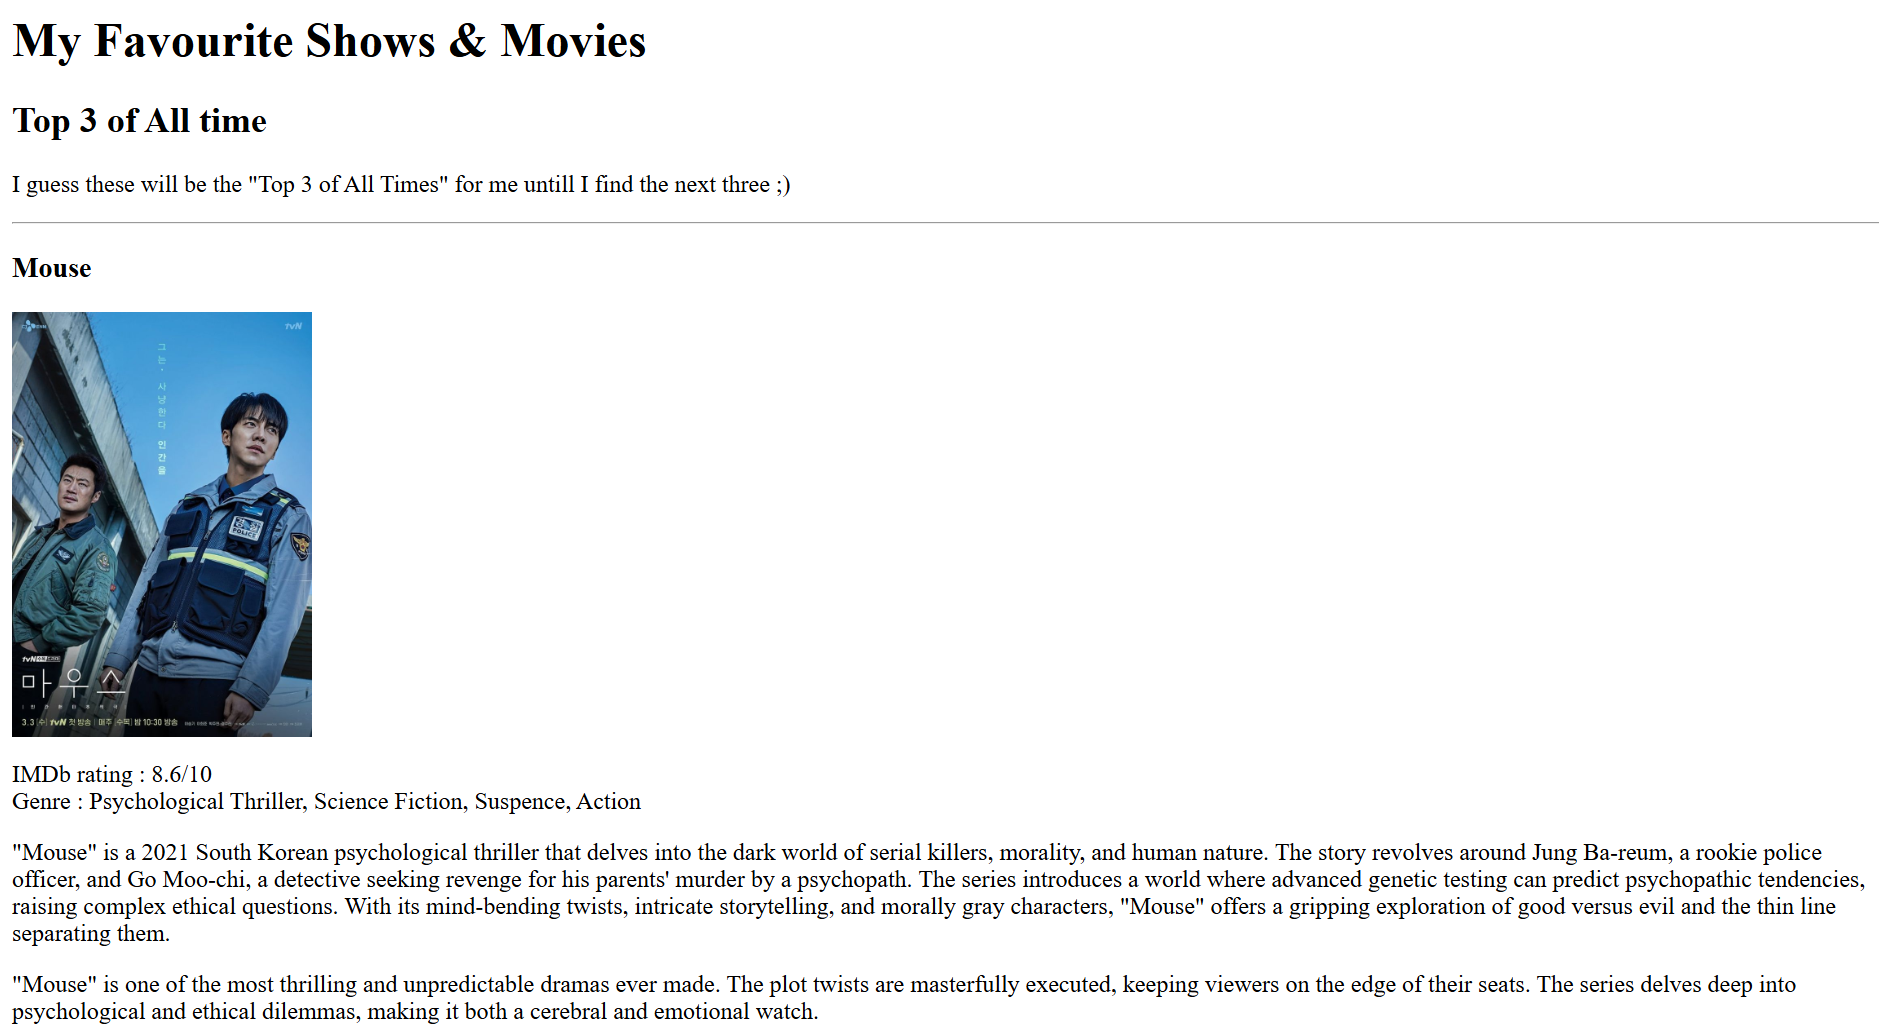
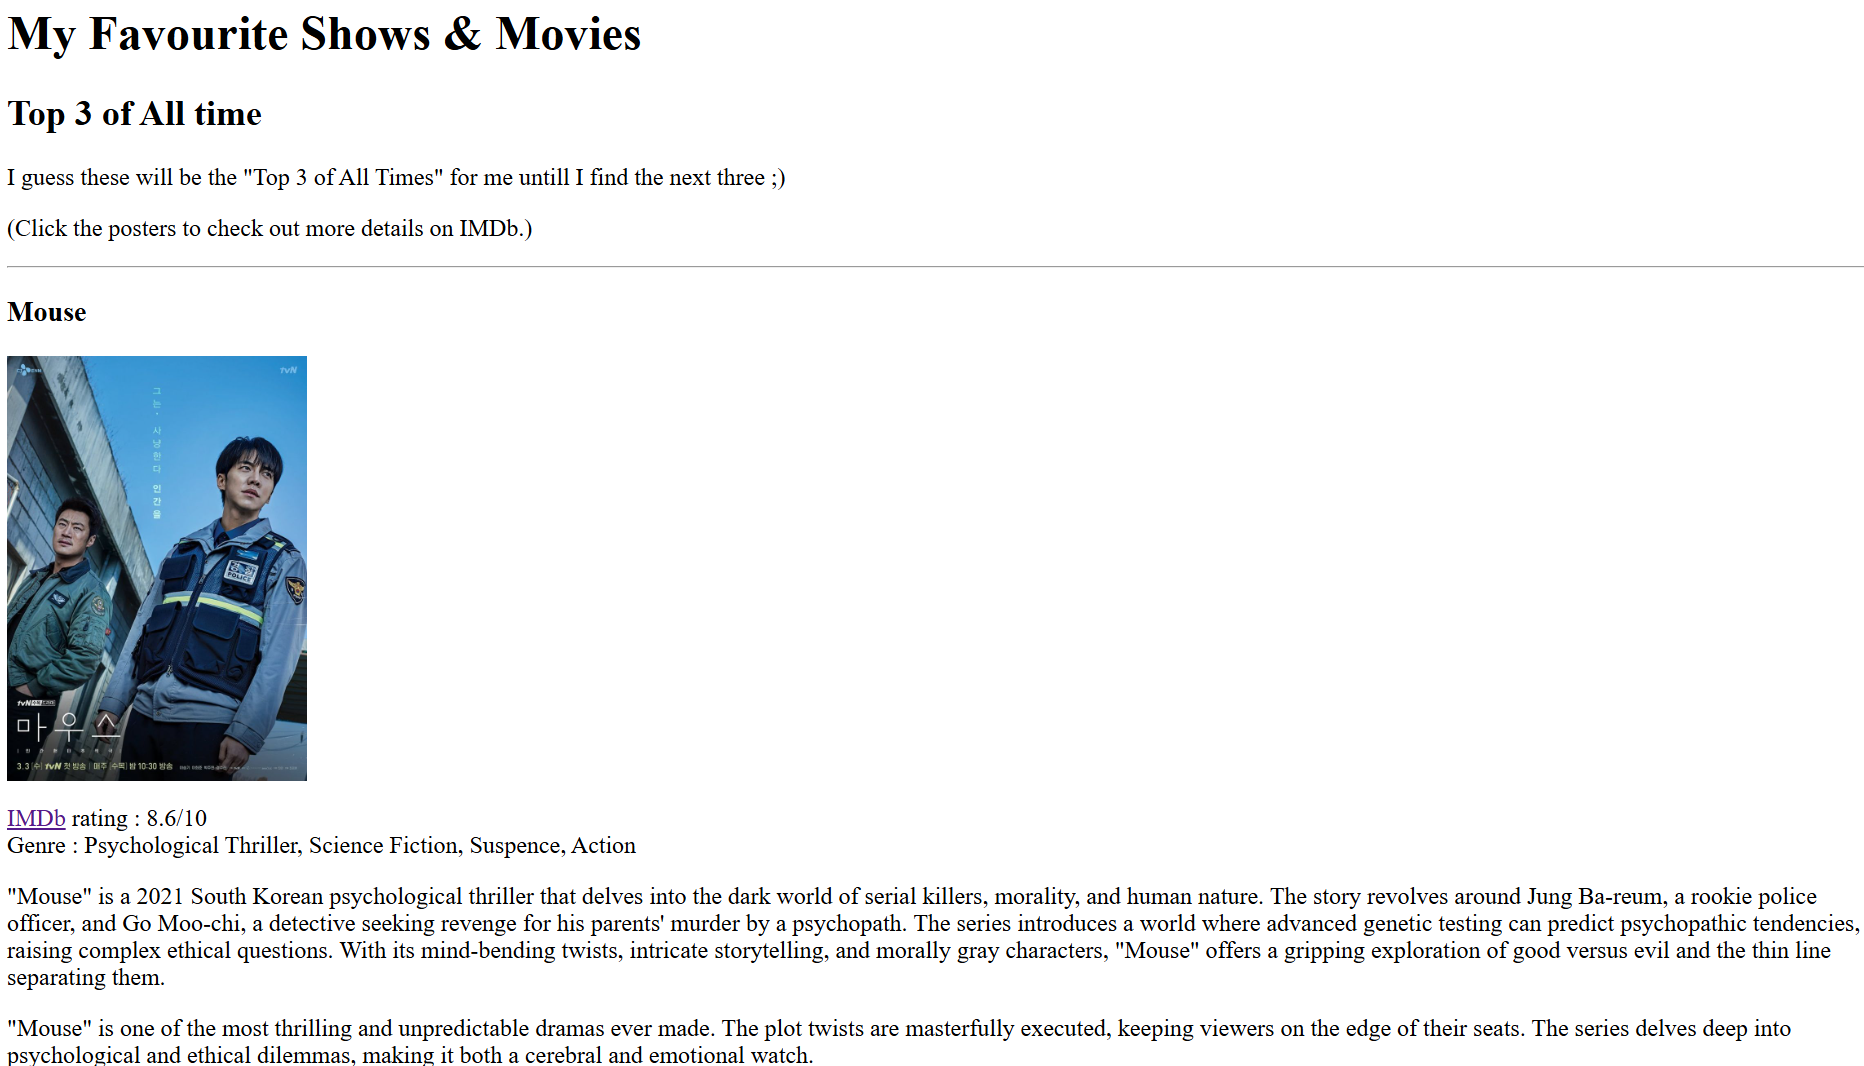
Add files via upload

diff --git a/public/movie-ranking.html b/public/movie-ranking.html
@@ -1,13 +1,14 @@
 <h1>My Favourite Shows & Movies</h1>
 <h2>Top 3 of All time</h2>
 <p>I guess these will be the "Top 3 of All Times" for me untill I find the next three ;) </p>
+<p>(Click the posters to check out more details on IMDb.)</p>
 
 <hr />
 
 <h3>Mouse</h3>
-<img src="https://i.pinimg.com/736x/41/a2/c0/41a2c05cea28377717bd36cfd1013dae.jpg" alt="Poster of Mouse" width="200" />   
+<a href="https://www.imdb.com/title/tt13634792/"><img src="https://i.pinimg.com/736x/41/a2/c0/41a2c05cea28377717bd36cfd1013dae.jpg" alt="Poster of Mouse" width="200" />   </a>
 <p> 
-    IMDb rating : 8.6/10 <br />
+    <a href="https://www.imdb.com/title/tt13634792/">IMDb</a> rating : 8.6/10 <br />
     Genre : Psychological Thriller, Science Fiction, Suspence, Action<br />
 </p>
 <p>
@@ -25,9 +26,9 @@
 </p>
 
 <h3>Alchemy of Souls</h3>
-<img src="https://i.pinimg.com/736x/5e/41/23/5e41231c5ab3b9f7eb0758905fb97993.jpg" alt="Poster of Alchemy of Souls" width="200" />
+<a href="https://www.imdb.com/title/tt20859920/"><img src="https://i.pinimg.com/736x/5e/41/23/5e41231c5ab3b9f7eb0758905fb97993.jpg" alt="Poster of Alchemy of Souls" width="200" /></a>
 <p> 
-    IMDb rating : 8.7/10 <br />
+    <a href="https://www.imdb.com/title/tt20859920/">IMDb</a> rating : 8.7/10 <br />
     Genre : Historical Fiction, Fantasy, Romance, Comedy, Action<br />
 </p>
 <p>
@@ -44,9 +45,9 @@
 </p>
 
 <h3>Love, Victor</h3>
-<img src="https://i.pinimg.com/736x/af/83/af/af83af3a4269fb3e26c52a16720f94df.jpg" alt="Poster of Mouse" width="200" />   
+<a href="https://www.imdb.com/title/tt10166602/"><img src="https://i.pinimg.com/736x/af/83/af/af83af3a4269fb3e26c52a16720f94df.jpg" alt="Poster of Mouse" width="200" />   </a>
 <p> 
-    IMDb rating : 8/10 <br />
+    <a href="https://www.imdb.com/title/tt10166602/">IMDb</a> rating : 8/10 <br />
     Genre : Coming of Age, Romance, Comedy, Drama<br />
 </p>
 <p>
